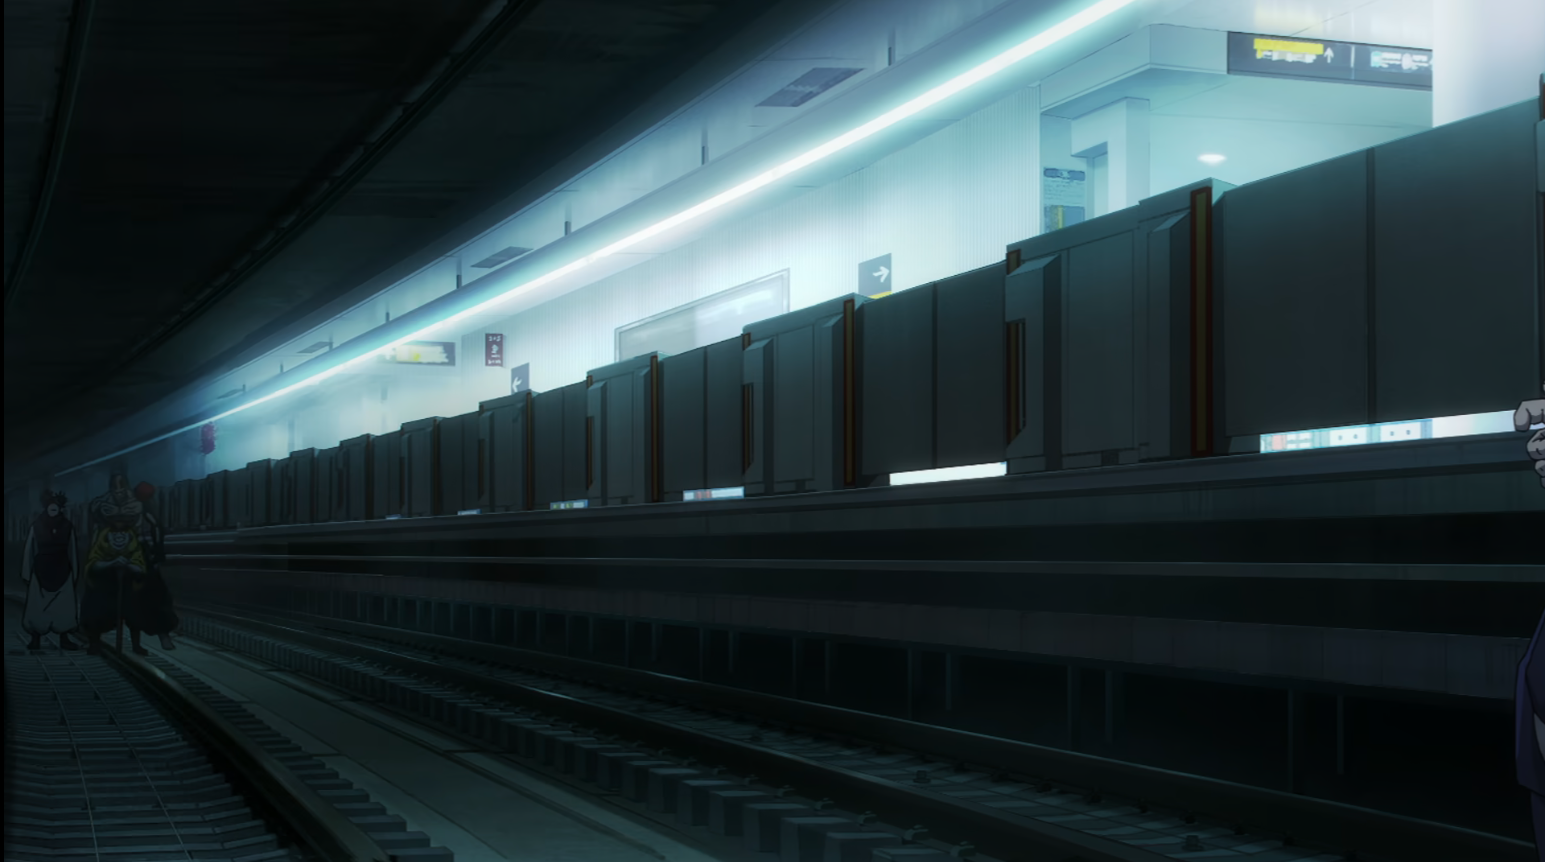
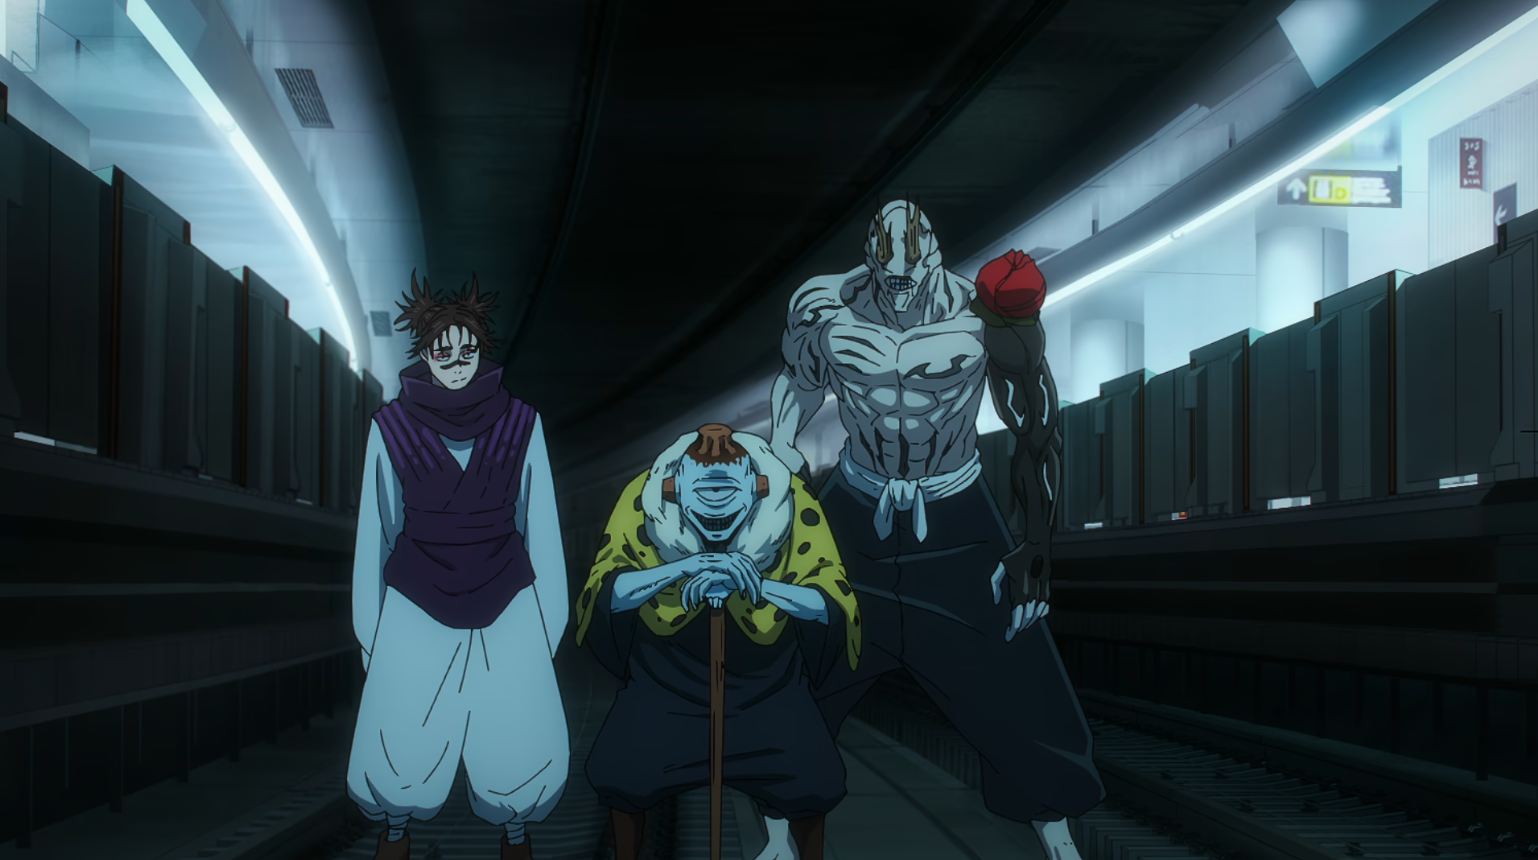
バトルシーン追加

diff --git a/tips/s33_5.md b/tips/s33_5.md
@@ -5,11 +5,46 @@
 <div id="shibuya5"></div>
 
 ### ⑤ 18:24 メトロ渋谷駅副都心線B5Fホーム　
-33話の戦闘シーンは五条メインのため、32話と場所が一緒です！
-
-印象的なおかつ移動が激しくない以下のシーンのみご紹介。
+33話の戦闘シーンは五条メインのため、32話と場所が同じ。
 
 <div style="width=100%;">
+
+![](./images/5_anime_13.png)
+![](./images/5_anime_14.png)
+
+「そこの雑草、会うのは３度目だな」  
+「ナメたマネしやがって…まずはお前から殺す」
+
+![](./images/5_anime_15.png)
+
+「ほら、来いよ。どうした？」  
+「逃げんなっつったのは…お前らの方だろ」
+
+![](./images/5_anime_16.png)
+![](./images/5_anime_17.png)
+![](./images/5_anime_18.png)
+![](./images/5_anime_19.png)
+![](./images/5_anime_20.png)
+![](./images/5_anime_21.png)
+![](./images/5_anime_22.png)
+![](./images/5_anime_23.png)
+
+「次」
+
+![](./images/5_anime_24.png)
+![](./images/5_anime_25.png)
+![](./images/5_anime_26.png)
+![](./images/5_anime_27.png)
+![](./images/5_anime_28.png)
+![](./images/5_anime_29.png)
+![](./images/5_anime_30.png)
+![](./images/5_anime_31.png)
+![](./images/5_anime_32.png)
+![](./images/5_anime_33.png)
+![](./images/5_anime_34.png)
+![](./images/5_anime_35.png)
+
+
 
 ![](./images/5.png)
 
@@ -35,8 +70,32 @@
 ![](./images/5_anime_8.png)
 ![](./images/5_anime_9.png)
 ![](./images/5_anime_10.png)
+
+「「で…誰だよ？　お前」」
+
 ![](./images/5_anime_11.png)
+
+![](./images/5_anime_36.png)
+
+「肉体も呪力も、この目に映る情報はお前を”夏油傑”だと言っている」  
+「だが…俺の魂がそれを否定してんだよ！」  
+「さっさと答えろ！　お前は誰だ!?」
+
+![](./images/5_anime_37.png)
+
+「キッショ…なんで分かるんだよ」
+
+![](./images/5_anime_38.png)
 ![](./images/5_anime_12.png)
+
+![](./images/5_anime_39.png)
+
+「おやすみ、五条悟」  
+「新しい世界で、また会おう」
+
+![](./images/5_anime_40.png)
+![](./images/5_anime_41.png)
+
 
 </div>
 

diff --git a/tips/s32_4.md b/tips/s32_4.md
@@ -16,12 +16,51 @@
 ![](./images/4.png)
 
 ![](./images/4_anime_1.png)
-
-![](./images/4_anime_2.png)
-
 ![](./images/4_anime_3.png)
 
+「準備ばっちりってわけだ」
+
 ![](./images/4_anime_4.png)
+
+「来たな」
+
+![](./images/4_anime_5.png)
+
+「これで負けたら言い訳できないよ」
+
+![](./images/4_anime_6.png)
+
+16:43「そんな事しなくたっても逃げないよ」  
+16:44「僕が逃げたらお前らここの人間全員殺すだろ」
+
+![](./images/4_anime_7.png)
+
+「逃げたら、か…」  
+「回答は」  
+「逃げずともだ！！」
+
+![](./images/4_anime_8.png)
+![](./images/4_anime_9.png)
+
+「こうでもせんとわからんか？」  
+
+![](./images/4_anime_10.png)
+
+「正直驚いたよ」  
+「なんだ？言い訳か？」  
+
+![](./images/4_anime_11.png)
+
+「違ぇよハゲ」  
+
+![](./images/4_anime_12.png)
+
+「この程度で僕に勝てると思ってる脳みそに驚いたって言ってんだよ」  
+
+![](./images/4_anime_13.png)
+
+「最低でも20分はほしい」  
+「そのあとは…私と”獄門疆”の出番だ」
 
 </div>
 

diff --git a/README.md b/README.md
@@ -4,6 +4,7 @@
 
 ### 明治神宮
 1. 都心メトロ明治神宮前駅 --- [m1](./tips/s32_m1.md)
+1. 都心メトロ明治神宮前駅 B2F --- [m2](./tips/s32_m2.md)
 
 ### 渋谷
 
@@ -31,7 +32,7 @@
 
 ---
 
-1. アニメ32話“渋谷事変” --- [①](./tips/s32_1.md) , [②](./tips/s32_2.md) , [③](./tips/s32_3.md) , [④](./tips/s32_4.md) 
+1. アニメ32話“渋谷事変” --- [①](./tips/s32_1.md) , [②](./tips/s32_2.md) , [③](./tips/s32_3.md) , [④](./tips/s32_4.md) , [m1](./tips/s32_m1.md) , [m2](./tips/s32_m2.md)
 1. アニメ33話“渋谷事変開門 --- [⑤](./tips/s33_5.md)
 1. アニメ34話“昏乱” --- [⑥](./tips/s34_6.md) , [⑦](./tips/s34_7.md) , [⑧](./tips/s34_8.md) , [⑨](./tips/s34_9.md) , [⑩](./tips/s34_10.md)
 1. アニメ35話“降霊” --- [⑪](./tips/s35_11.md) , [⑫](./tips/s35_12.md) , [⑬](./tips/s35_13.md)

diff --git a/tips/s32_m2.md b/tips/s32_m2.md
@@ -1,0 +1,14 @@
+<div id="アニメ32話“渋谷事変”"></div>
+
+## アニメ32話“渋谷事変 [🏠](../README.md#top)
+
+<div id="m1"></div>
+
+### 07:58 都心メトロ明治神宮前駅 B2F
+虎杖とバッタとの戦闘シーン
+
+![](./images/m2_anime_1.png)
+![](./images/m2_anime_2.png)
+![](./images/m2_anime_3.png)
+![](./images/m2_anime_4.png)
+![](./images/m2_anime_5.png)

diff --git a/tips/s32_m1.md b/tips/s32_m1.md
@@ -31,4 +31,7 @@
 ![](./images/m1_anime_11.png)
 ![](./images/m1_anime_12.png)
 
+![](./images/m1_anime_13.png)
+![](./images/m1_anime_14.png)
+
 [▲TOPへ](../README.md#top)
